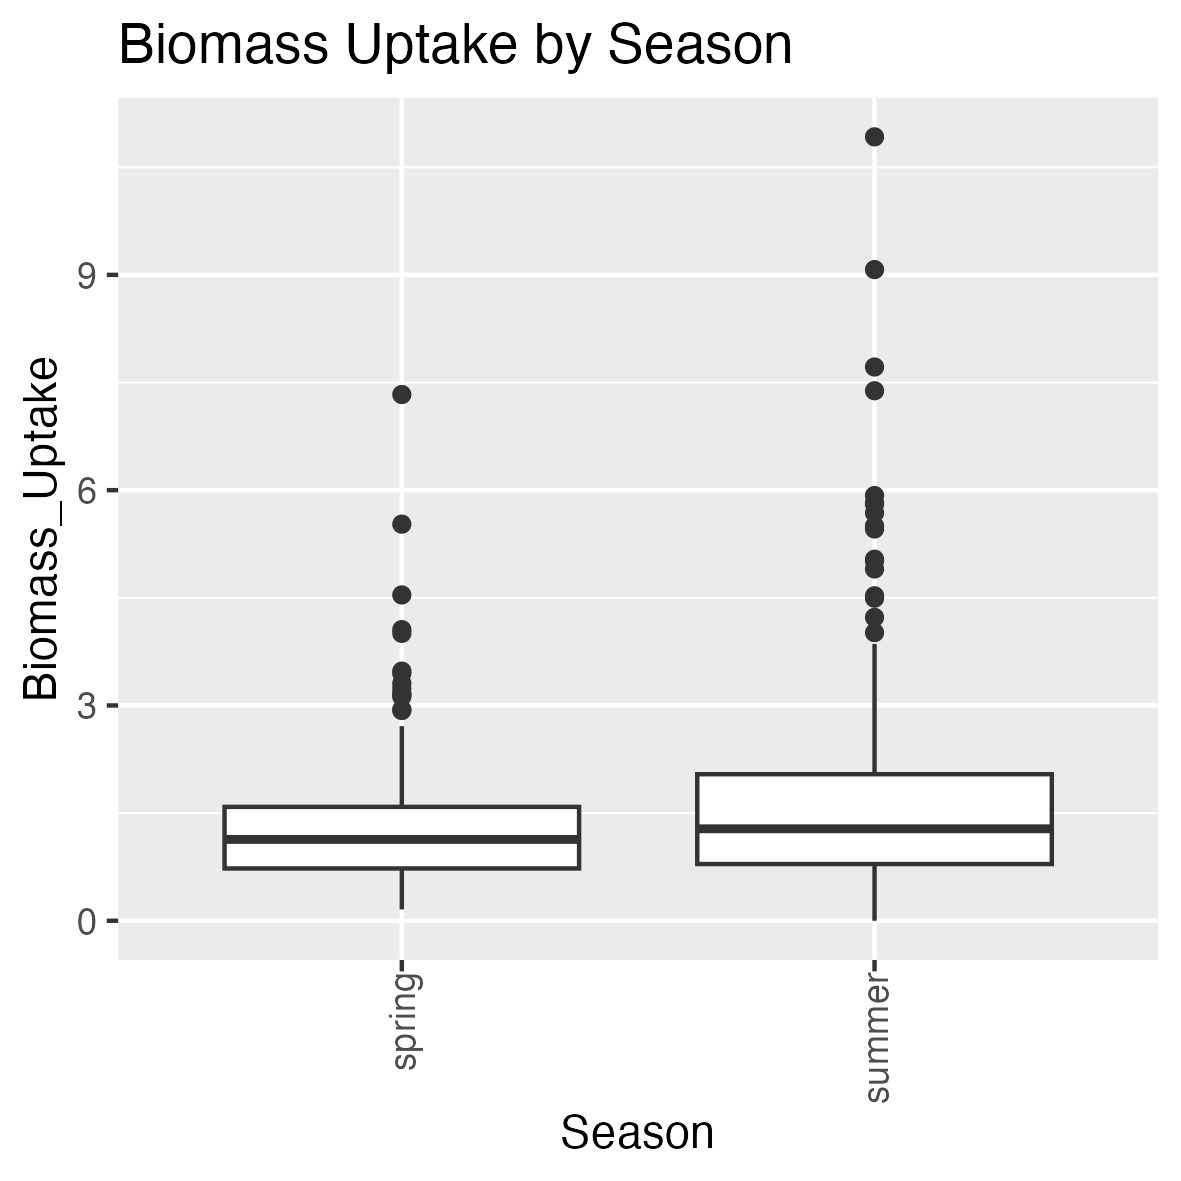
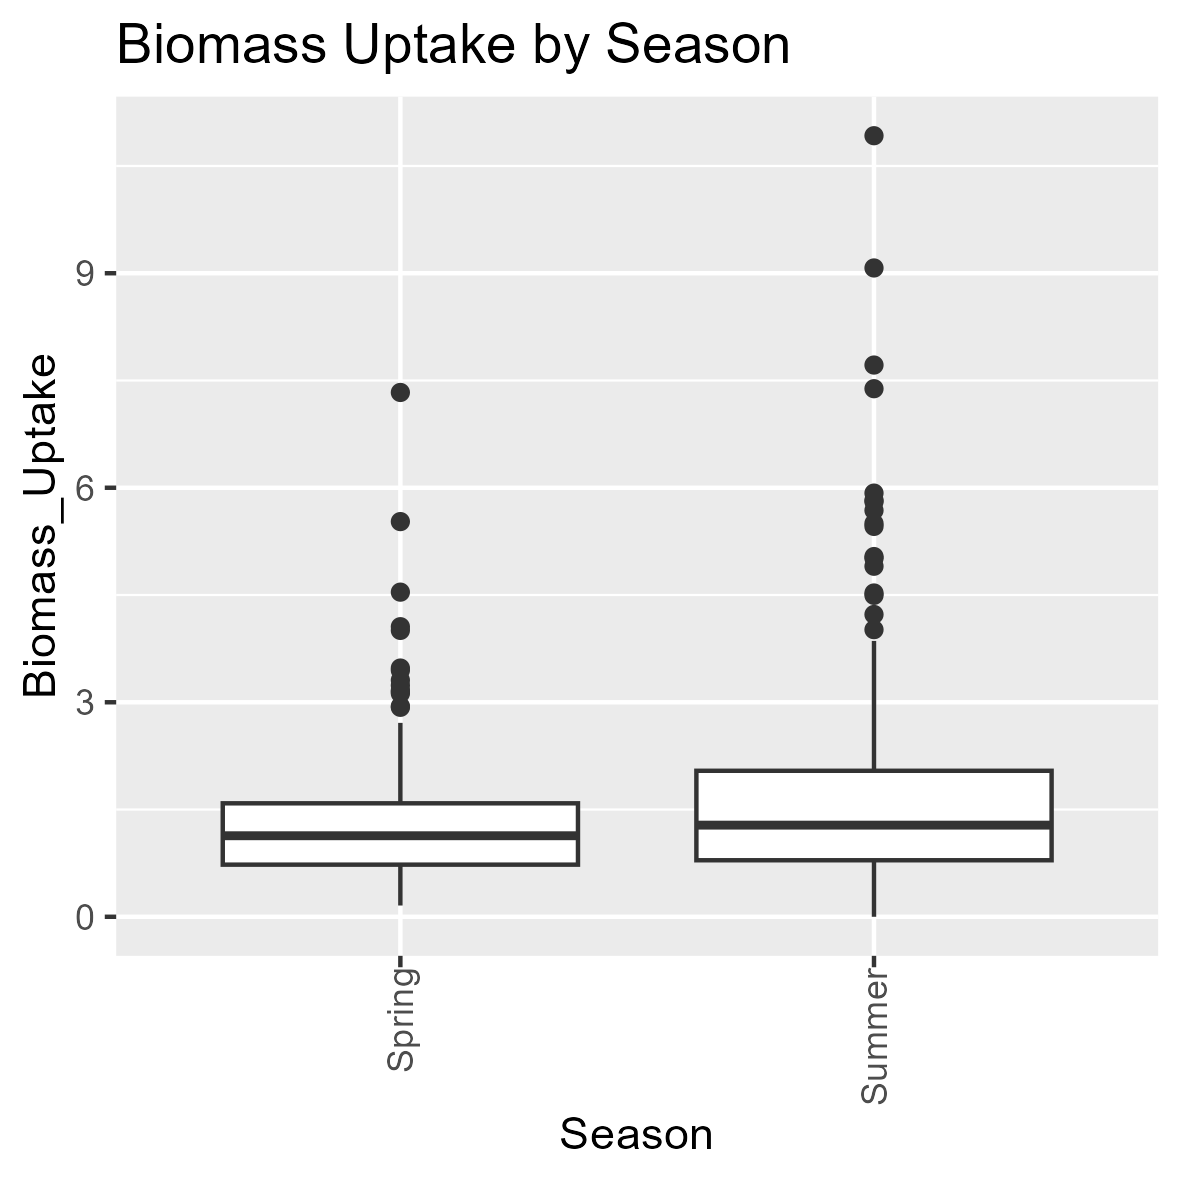
Writing final report and uniforming data frame names

diff --git a/Code/Project_Template.html b/Code/Project_Template.html
@@ -5857,8 +5857,61 @@ were from the Santa Barbara Coastal Long Term Ecological Research Site
 (SBC LTER) which is based within the University of California, Santa
 Barbara (UCSB) Marine Science Institute, and is part of the National
 Science Foundation’s LTER Network.</p>
-<p>Data Set 1:</p>
-<p>Data Set 2:</p>
+<p>The first data set focuses on one experimenter done that examines
+nitrogen and biomass uptake by kelp during timed nitrogen blasting. The
+first data set was used to determine if nitrogen uptake varies by time
+(minutes), season, or nitrogen type. The second data set has dates and
+percent nitrogen of kelp over almost a twenty year period. This second
+data set was used to gain a general sense of nitrogen found in kelp in
+Santa Barbara, CA and to see if that has changed over time.</p>
+<table>
+<caption>Data Set Information</caption>
+<colgroup>
+<col width="33%" />
+<col width="33%" />
+<col width="33%" />
+</colgroup>
+<thead>
+<tr class="header">
+<th align="right">Detail</th>
+<th align="center">Data Set 1</th>
+<th align="center">Data Set 2</th>
+</tr>
+</thead>
+<tbody>
+<tr class="odd">
+<td align="right">Source</td>
+<td align="center">Santa Barbara Coastal Long Term Ecological Research
+(LTER)</td>
+<td align="center">Santa Barbara Coastal Long Term Ecological Research
+(LTER)</td>
+</tr>
+<tr class="even">
+<td align="right">Retrieved from</td>
+<td align="center">[Nitrogen Uptake Link]<a href="https://portal.edirepository.org/nis/mapbrowse?packageid=edi.1022.2" class="uri">https://portal.edirepository.org/nis/mapbrowse?packageid=edi.1022.2</a></td>
+<td align="center">[Nitrogen Overtime Link]<a href="https://sbclter.msi.ucsb.edu/data/catalog/package/?package=knb-lter-sbc.24" class="uri">https://sbclter.msi.ucsb.edu/data/catalog/package/?package=knb-lter-sbc.24</a></td>
+</tr>
+<tr class="odd">
+<td align="right">Variables Used</td>
+<td align="center">Nitrogen Types, Season, Day Replicate, Time, Blade
+Replicate, Uptake Rate, Biomass Uptake Rate</td>
+<td align="center">Year, Month, Date, Nitrogen Percent</td>
+</tr>
+<tr class="even">
+<td align="right">Date</td>
+<td align="center">2021</td>
+<td align="center">2002-2021</td>
+</tr>
+</tbody>
+</table>
+<p>The data for nitrogen uptake was cleaned by renaming the column names
+to be better understood by the public. Multiple columns including
+columns for Blade Replicate, Day Replicate, Time, Season, and Nitrogen
+Type were changed to factors. Season and Nitrogen Type also had labels
+added to capitalize the names of seasons and nitrogen types.Data
+cleaning for the second data set entailed renaming column names as well.
+Date was changed from a factor to a date data type. Sites with missing
+values were also removed.</p>
 <div style="page-break-after: always;"></div>
 </div>
 <div id="exploratory-analysis" class="section level1">
